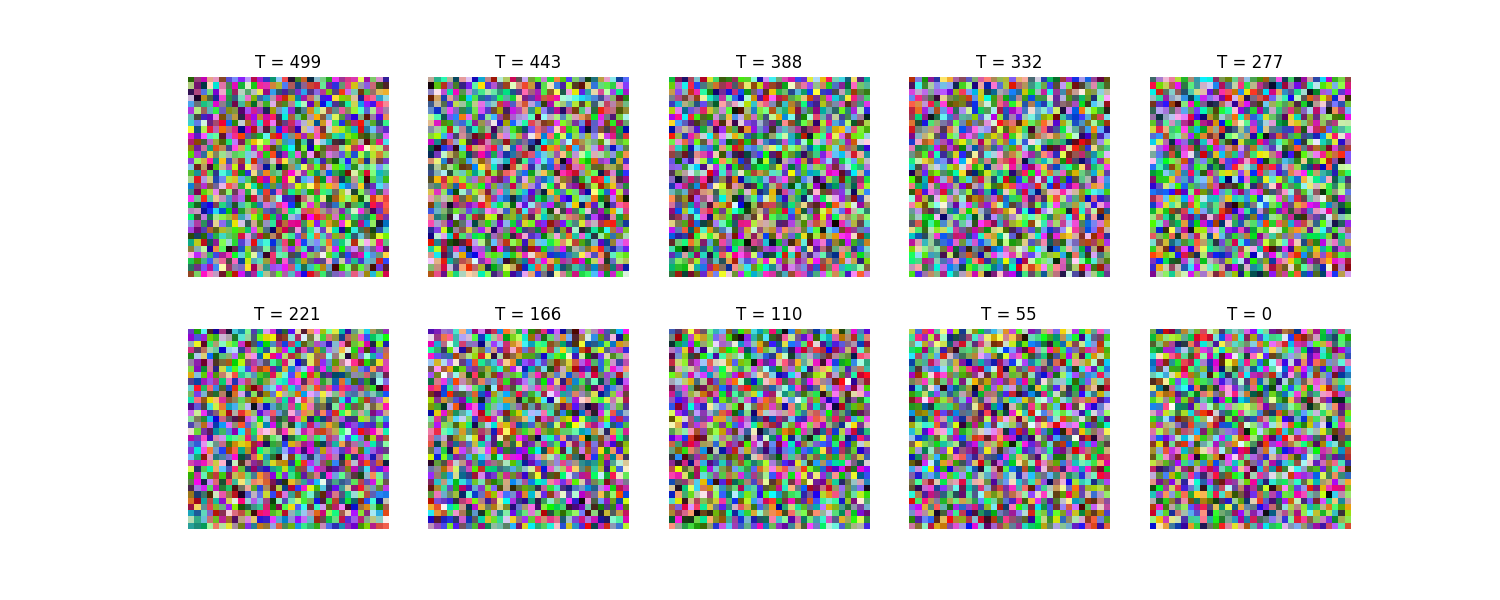
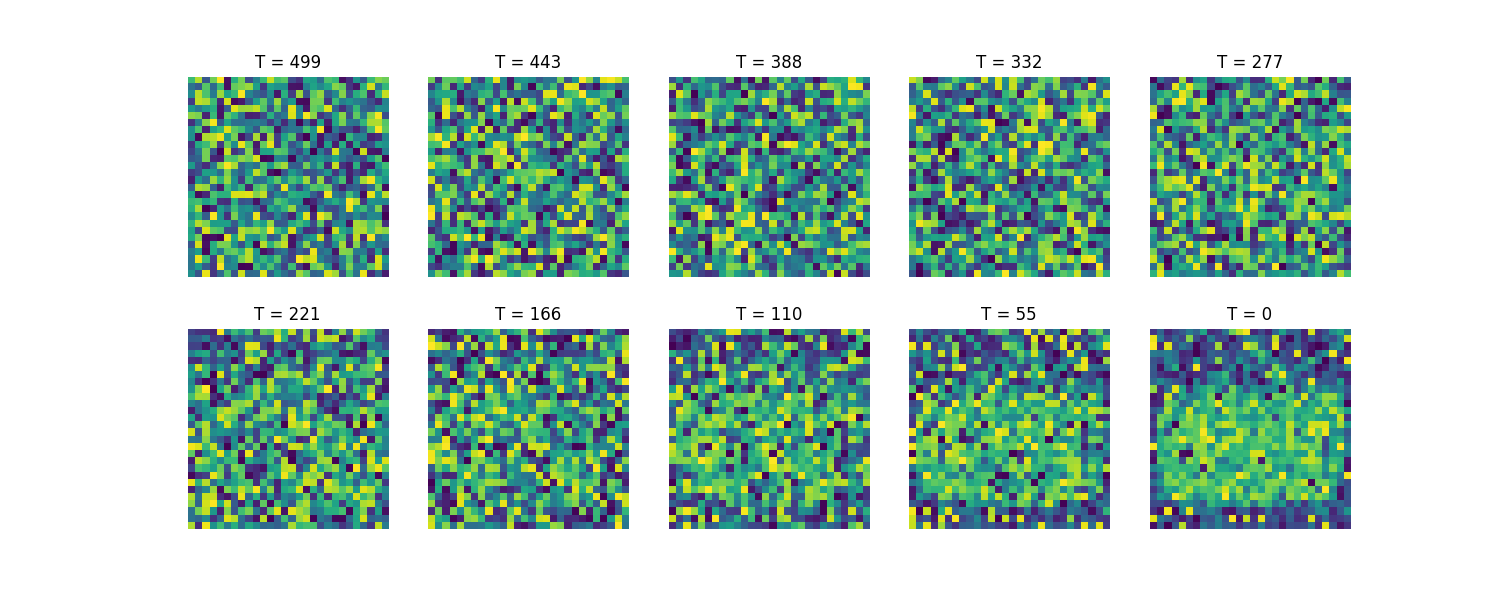
''

diff --git a/src/mini_diffusion/sample.py b/src/mini_diffusion/sample.py
@@ -81,7 +81,7 @@ def sample(config:Config| None = None):
 
     unet.eval()
     with torch.inference_mode() , torch.no_grad():
-        x_t = torch.randn(size=(1,3,img_dim,img_dim)).to(device)
+        x_t = torch.randn(size=(81,config.model.im_channels,img_dim,img_dim)).to(device)
         
         n_plots = 10 
         steps_to_plot = torch.linspace(config.diffusion.timesteps - 1, 0, n_plots, dtype=torch.long)
@@ -133,7 +133,7 @@ def sample(config:Config| None = None):
             
             
             if i in steps_to_plot:
-                img = x_t[0].permute(1,2,0).cpu().numpy()
+                img = x_t[0].permute(1,2,0).cpu().numpy() if config.model.im_channels == 3 else x_t[0,0].cpu().numpy()
         
                 img = (img * 0.5 ) + 0.5
                 
@@ -148,14 +148,28 @@ def sample(config:Config| None = None):
             #     f"Step {i}: mean={x_t.mean():.4f}, std={x_t.std():.4f} "
             #     f"min={x_t.min()} max = {x_t.max()}"
             # )
-
-        img = x_t[0].permute(1, 2, 0).cpu().numpy()
-
-        logger.info(f"{img.shape} {img.mean()} {img.std()}")
-        
         plt.savefig("./temp.png")
         plt.close()
-        img = x_t[0].permute(1,2,0).cpu().numpy()
+
+        fig,axis = plt.subplots(figsize=(9,9))
+        for i in range(81):
+            img = x_t[i].squeeze(0).cpu().numpy() if config.model.im_channels == 1 else x_t[i].permute(1,2,0).cpu().numpy()
+            img = (img * 0.5 ) + 0.5
+            img = (img * 255).astype(np.uint8)
+            
+            fig.add_subplot(9, 9, i+1)
+            plt.imshow(img, cmap="gray" if config.model.im_channels == 1 else None)
+            plt.axis("off")
+        plt.suptitle("Final Sampled Images")
+        plt.axis("off")
+        
+        plt.savefig("./final_samples.png")
+        plt.show()
+        plt.close()
+        
+        img = x_t[0].permute(1,2,0).cpu().numpy() if config.model.im_channels == 3 else x_t[0,0].cpu().numpy()
+
+        logger.info(f"{img.shape} {img.mean()} {img.std()}")
         
         img = (img * 0.5 ) + 0.5
         
@@ -174,13 +188,13 @@ def sample(config:Config| None = None):
         # plt.plot(diffusion.alpha.cpu().numpy(), label="alpha")
         # plt.plot(diffusion.beta.cpu().numpy(), label="beta")
         
-        plt.xlabel("Time Step")
-        plt.ylabel("Coefficient")
-        plt.title("Schedule Consistency")
-        plt.legend()
-        # plt.savefig("./coefficients.png")
-        plt.show()
-        plt.close()
+        # plt.xlabel("Time Step")
+        # plt.ylabel("Coefficient")
+        # plt.title("Schedule Consistency")
+        # plt.legend()
+        # # plt.savefig("./coefficients.png")
+        # plt.show()
+        # plt.close()
         return buf.getvalue()
         
 if __name__ == "__main__":

diff --git a/src/mini_diffusion/train.py b/src/mini_diffusion/train.py
@@ -119,10 +119,11 @@ def train(config: Config):
     
     losses = []
     print(epoch_start)
+    # scaler = torch.GradScaler()
     
     i=0
     for epoch in range(epoch_start,epochs):
-        for batch in dataloader:
+        for batch,idx in dataloader:
             optimizer.zero_grad()
             with torch.no_grad():
                 x= batch.to(device)
